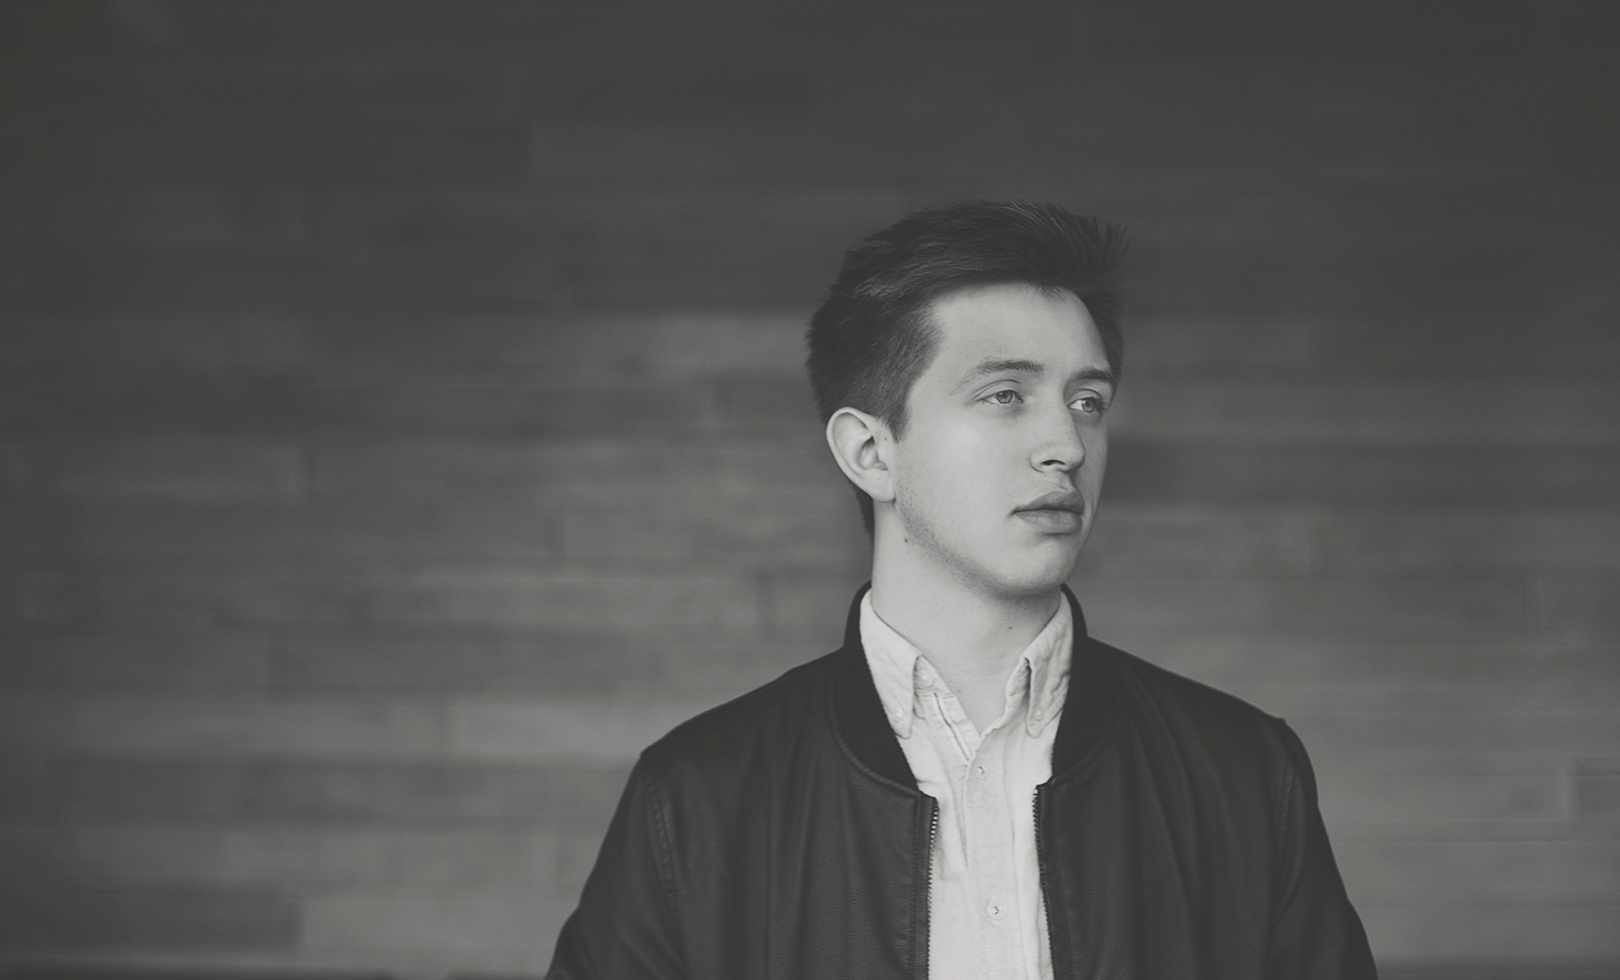
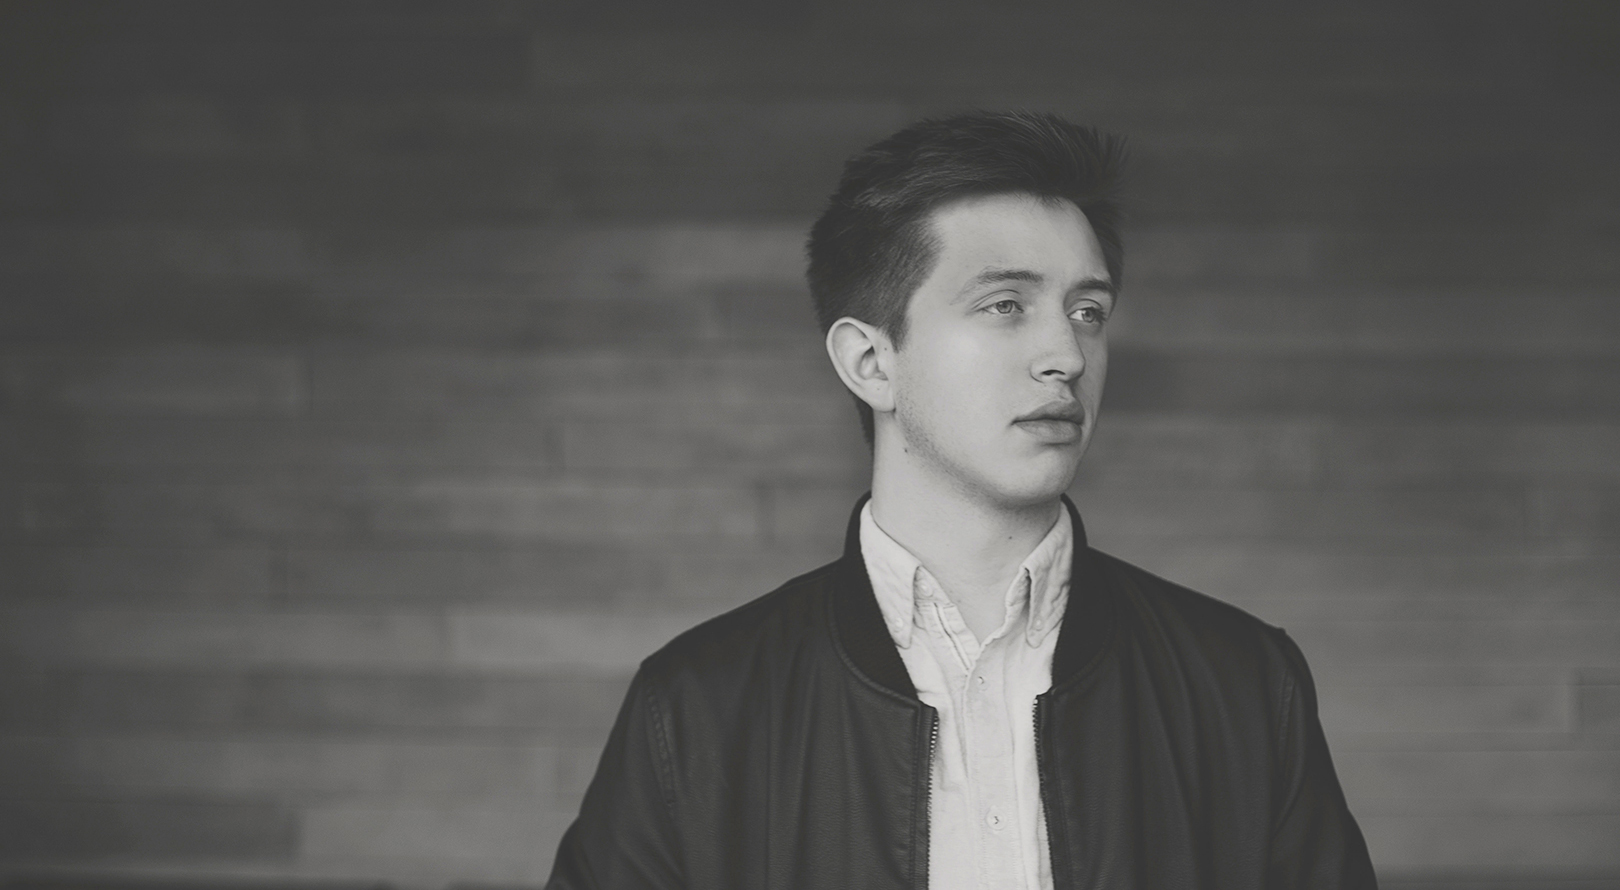
Version 3.2
Smaller header slides, cleaned code

diff --git a/index.html b/index.html
@@ -36,10 +36,10 @@
     
 <div class="orbit top-slider" role="region" aria-label="Photos" data-orbit id="first">
     <ul class="orbit-container">
-      <li class="orbit-slide is-active">
-        <img class="orbit-image" src="img/slide1.jpg">
-      <li class="orbit-slide">
-        <img class="orbit-image" src="img/slide2.jpg">
+    <li class="orbit-slide is-active">
+    <img class="orbit-image" src="img/slide1.jpg">
+    <li class="orbit-slide">
+    <img class="orbit-image" src="img/slide2.jpg">
 </div>
     
 <div class="row arrow">

diff --git a/css/custom.css b/css/custom.css
@@ -72,12 +72,17 @@ h3 {
     }
 }
 
+.arrow a:hover {
+    background-color: none;
+    color: none;
+}
+
 .arrow {
     position: relative;
     margin-left: auto;
     margin-right: auto;
     margin-top: -50px;
-    padding-bottom: 50px;
+    padding-bottom: px;
     width: 40px;
     height: 40px;
     font-size: 40px;
